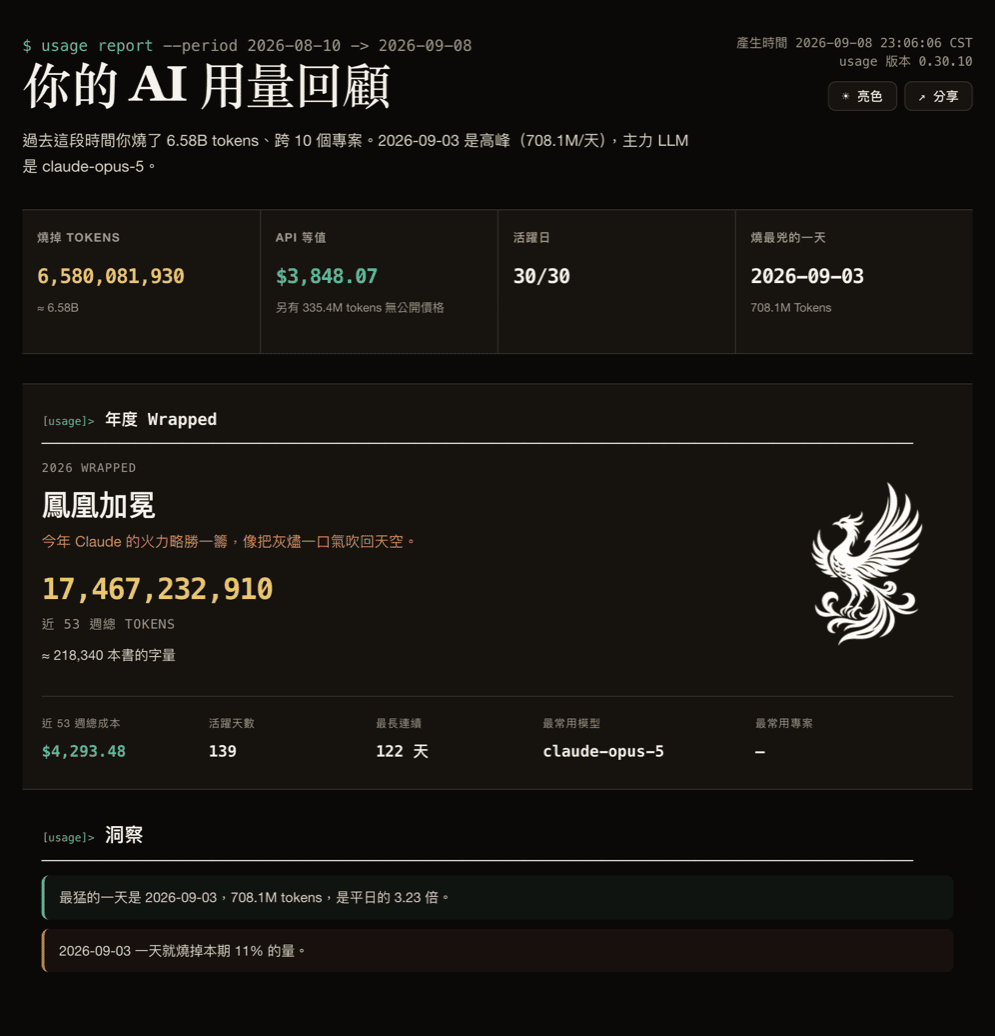
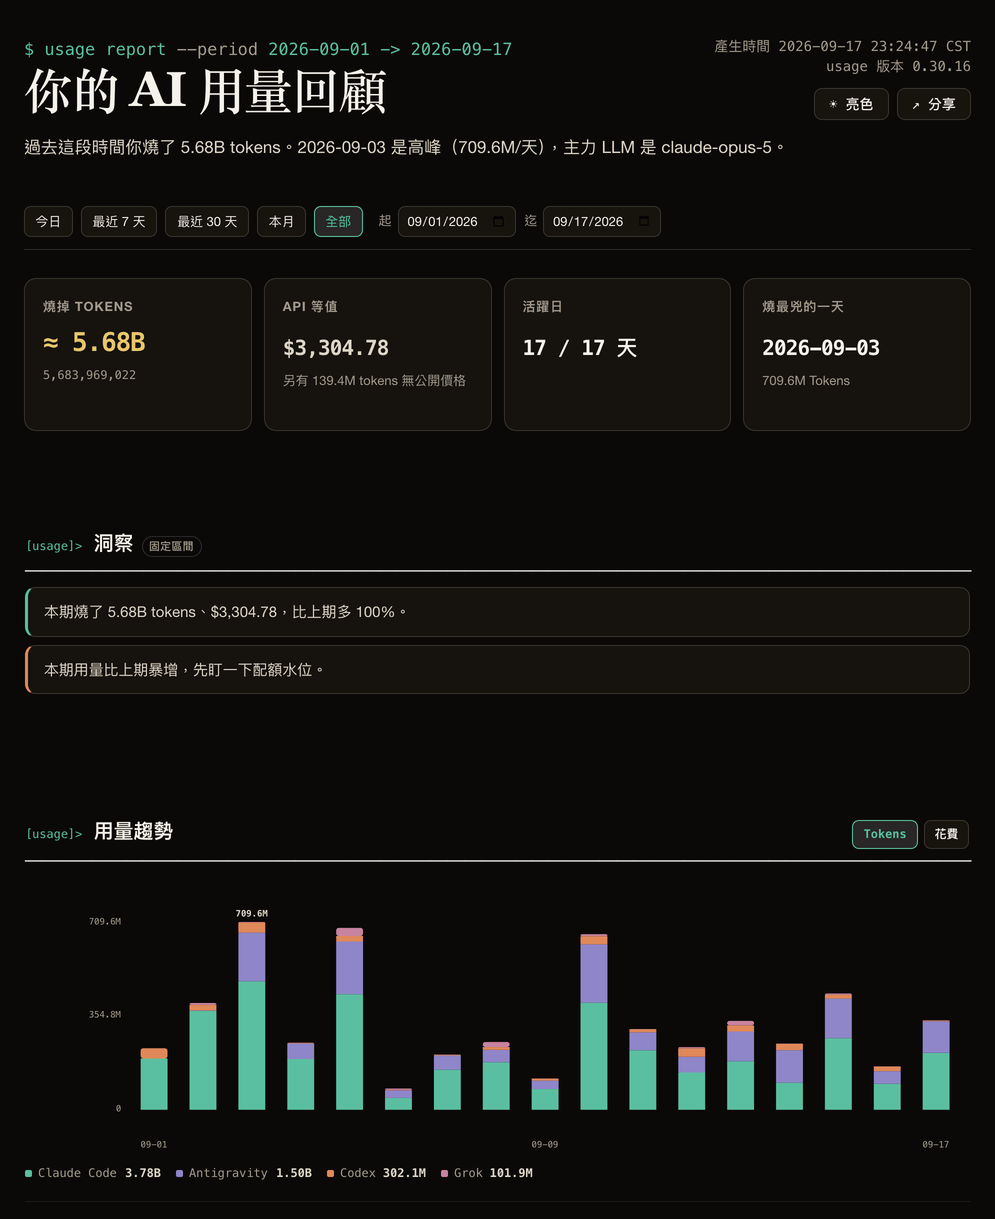
chore(docs): 官網報表截圖重拍，對上兩輪 UX 修正後的新版面
舊圖是 9/8 拍的，洞察還在年度 Wrapped 底下、活躍日寫成「30/30」。重拍後
可以看到數字卡片下方的洞察與「固定區間」標籤、「17 / 17 天」，以及完整的
用量趨勢圖。

沿用上次做法：報表內建 htmlToImage 以 2 倍算出、背景填 --bg、縮回 1 倍、
pngquant 壓成 256 色。畫面範圍不含專案名稱與對話標題。
高度 1036 → 1219，docs/index.html 的 data-size 跟著改，語言頁由
scripts/build_site_pages.py 重新產生。

diff --git a/docs/ja/index.html b/docs/ja/index.html
@@ -867,7 +867,7 @@ footer .kofi:hover { background: var(--accent-hover); }
     <div class="report">
       <h3 data-i18n="report_h">あなたの AI 使用量を、共有可能な 1 ページに。</h3>
       <p data-i18n="report_p">トークン支出、コスト、トッププロジェクト、モデル分布を含む HTML レポートを生成——さらに GitHub 風のコントリビューションヒートマップと「Wrapped」カード付きの年間振り返りページも。マネージャーへの送付、クライアントへの請求添付など。プロジェクト名はデフォルトで非表示。</p>
-      <img width="976" height="1036" loading="lazy" decoding="async" data-shot data-size-en="976x1036" data-size-cjk="995x1036" src="../report.en.png" data-img-en="../report.en.png" data-img-cjk="../report.png" alt="HTML usage report" />
+      <img width="976" height="1219" loading="lazy" decoding="async" data-shot data-size-en="976x1219" data-size-cjk="995x1219" src="../report.en.png" data-img-en="../report.en.png" data-img-cjk="../report.png" alt="HTML usage report" />
     </div>
   </div>
 </section>

diff --git a/docs/ko/index.html b/docs/ko/index.html
@@ -867,7 +867,7 @@ footer .kofi:hover { background: var(--accent-hover); }
     <div class="report">
       <h3 data-i18n="report_h">당신의 AI 사용량을, 공유 가능한 한 페이지로.</h3>
       <p data-i18n="report_p">토큰 지출, 비용, 상위 프로젝트, 모델 분포가 포함된 HTML 보고서를 생성 — GitHub 스타일 기여 히트맵, "Wrapped" 카드가 담긴 연말 결산 페이지도 함께. 매니저에게 전송하거나 고객 청구서 첨부로 활용. 프로젝트 이름은 기본 숨김.</p>
-      <img width="976" height="1036" loading="lazy" decoding="async" data-shot data-size-en="976x1036" data-size-cjk="995x1036" src="../report.en.png" data-img-en="../report.en.png" data-img-cjk="../report.png" alt="HTML usage report" />
+      <img width="976" height="1219" loading="lazy" decoding="async" data-shot data-size-en="976x1219" data-size-cjk="995x1219" src="../report.en.png" data-img-en="../report.en.png" data-img-cjk="../report.png" alt="HTML usage report" />
     </div>
   </div>
 </section>

diff --git a/docs/index.html b/docs/index.html
@@ -866,7 +866,7 @@ footer .kofi:hover { background: var(--accent-hover); }
     <div class="report">
       <h3 data-i18n="report_h">Your AI usage, in one shareable page.</h3>
       <p data-i18n="report_p">Generate an HTML report with token spend, cost, top projects, and model distribution, plus a year-in-review page with a GitHub-style contribution heatmap and a “Wrapped” card. Send to your manager. Use as a client invoice attachment. Project names hide by default.</p>
-      <img width="976" height="1036" loading="lazy" decoding="async" data-shot data-size-en="976x1036" data-size-cjk="995x1036" src="report.en.png" data-img-en="report.en.png" data-img-cjk="report.png" alt="HTML usage report" />
+      <img width="976" height="1219" loading="lazy" decoding="async" data-shot data-size-en="976x1219" data-size-cjk="995x1219" src="report.en.png" data-img-en="report.en.png" data-img-cjk="report.png" alt="HTML usage report" />
     </div>
   </div>
 </section>

diff --git a/docs/zh-CN/index.html b/docs/zh-CN/index.html
@@ -867,7 +867,7 @@ footer .kofi:hover { background: var(--accent-hover); }
     <div class="report">
       <h3 data-i18n="report_h">你的 AI 用量，一页可分享。</h3>
       <p data-i18n="report_p">生成 HTML 报告，内含 token 开销、花费、项目排行、模型分布，外加年度回顾页——GitHub 风格贡献热力图，加一张「Wrapped」卡。发给老板、附在客户发票里都行。默认隐藏项目名称。</p>
-      <img width="995" height="1036" loading="lazy" decoding="async" data-shot data-size-en="976x1036" data-size-cjk="995x1036" src="../report.png" data-img-en="../report.en.png" data-img-cjk="../report.png" alt="HTML usage report" />
+      <img width="995" height="1219" loading="lazy" decoding="async" data-shot data-size-en="976x1219" data-size-cjk="995x1219" src="../report.png" data-img-en="../report.en.png" data-img-cjk="../report.png" alt="HTML usage report" />
     </div>
   </div>
 </section>

diff --git a/docs/zh-TW/index.html b/docs/zh-TW/index.html
@@ -867,7 +867,7 @@ footer .kofi:hover { background: var(--accent-hover); }
     <div class="report">
       <h3 data-i18n="report_h">你的 AI 用量，一頁可分享。</h3>
       <p data-i18n="report_p">產出 HTML 報告，內含 token 開銷、成本、專案排行、模型分布，外加年度回顧頁——GitHub 風格貢獻熱力圖，加一張「Wrapped」卡。傳給主管、附在客戶請款裡都行。預設隱藏專案名稱。</p>
-      <img width="995" height="1036" loading="lazy" decoding="async" data-shot data-size-en="976x1036" data-size-cjk="995x1036" src="../report.png" data-img-en="../report.en.png" data-img-cjk="../report.png" alt="HTML usage report" />
+      <img width="995" height="1219" loading="lazy" decoding="async" data-shot data-size-en="976x1219" data-size-cjk="995x1219" src="../report.png" data-img-en="../report.en.png" data-img-cjk="../report.png" alt="HTML usage report" />
     </div>
   </div>
 </section>
